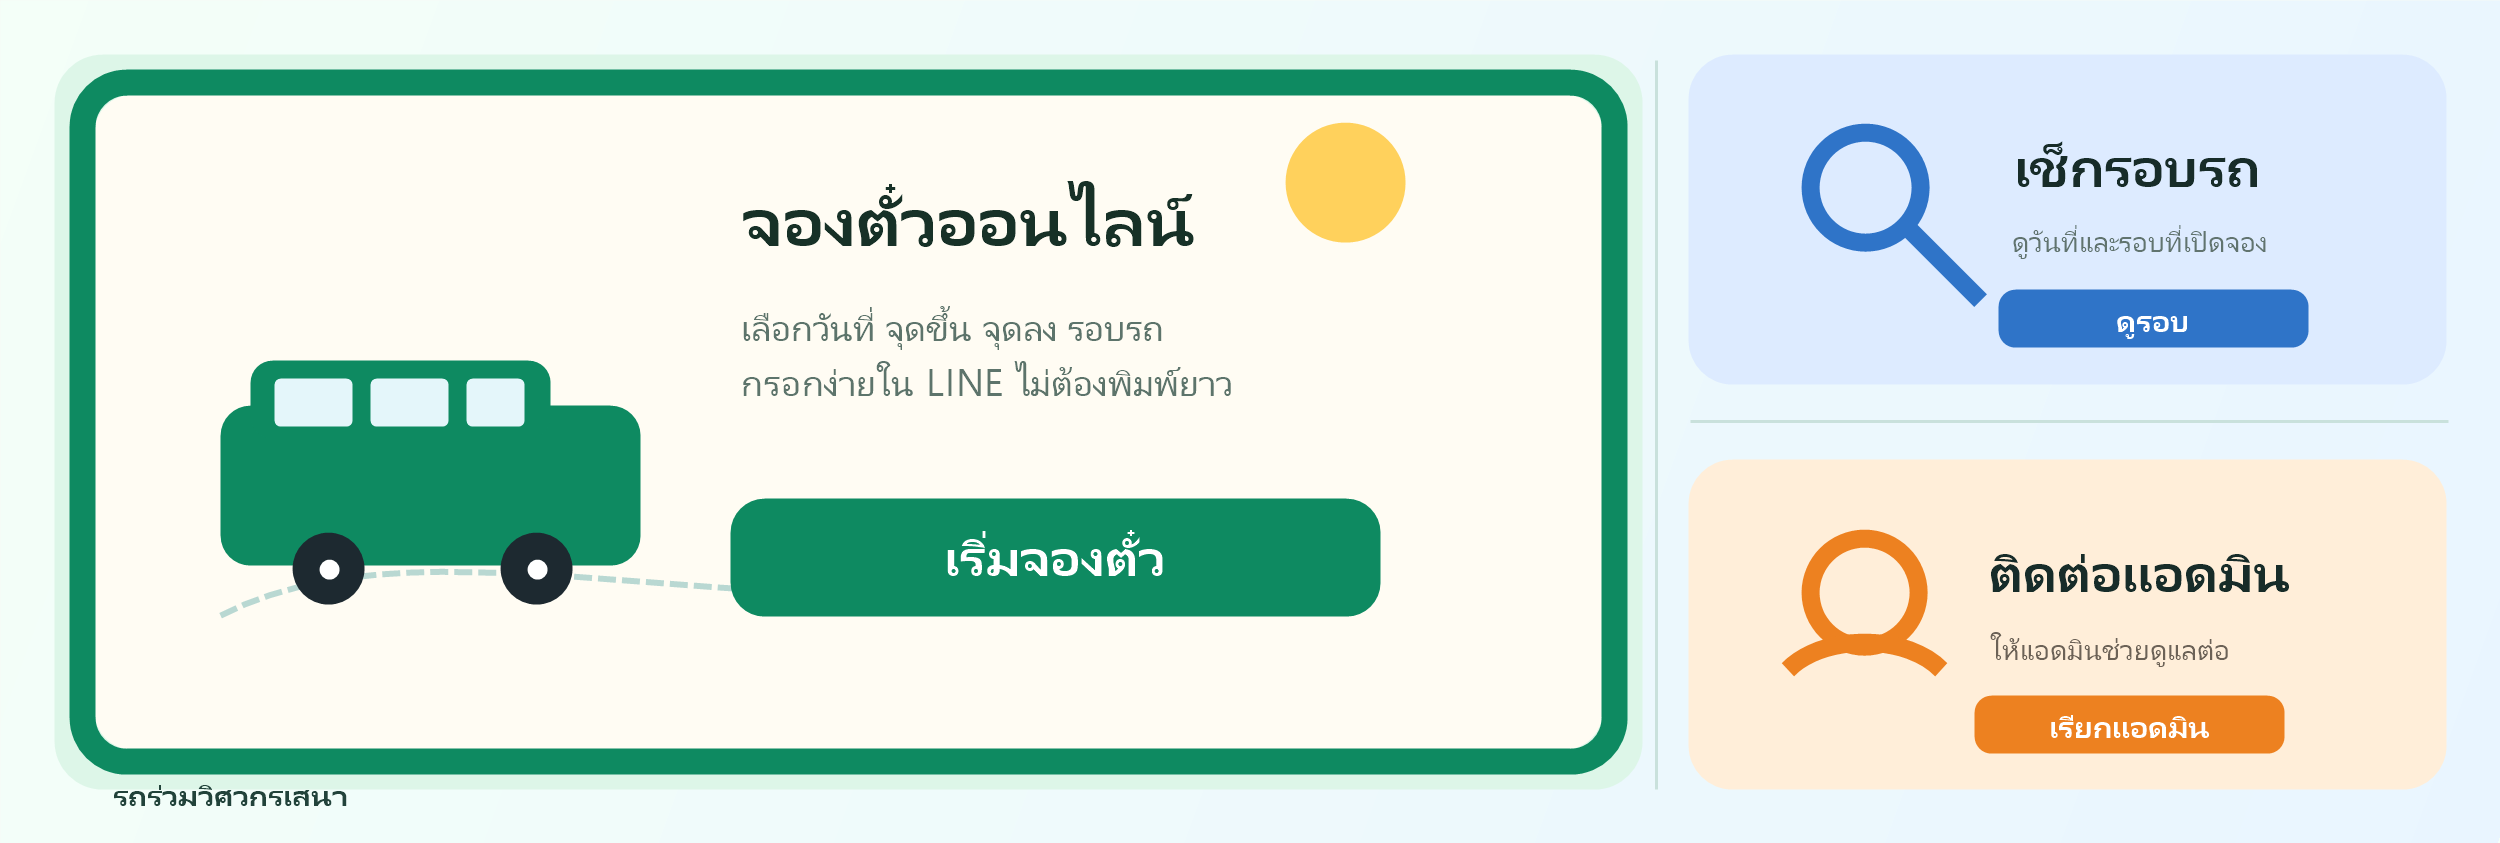
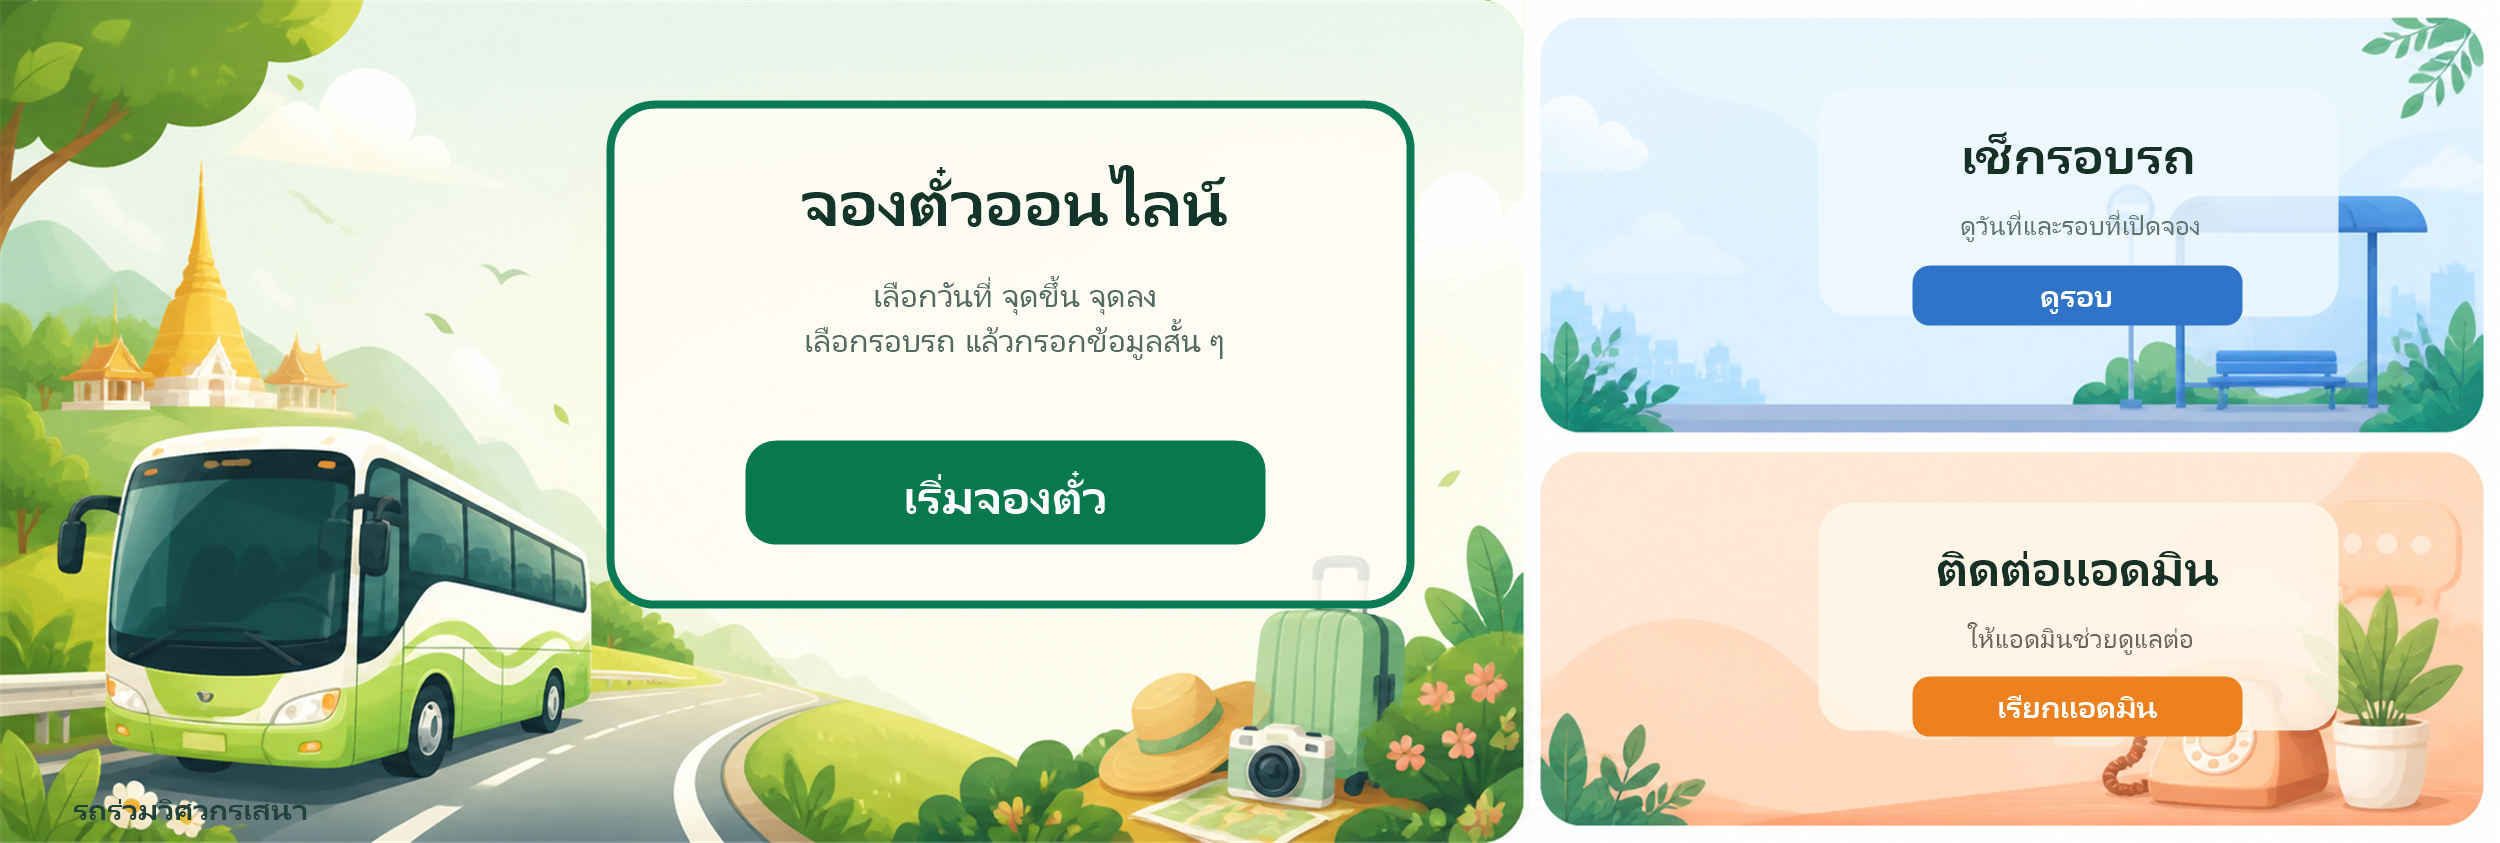
Use generated rich menu artwork

diff --git a/scripts/setup-rich-menu.js b/scripts/setup-rich-menu.js
@@ -56,11 +56,14 @@ async function lineApi(pathname, options = {}) {
 
 async function uploadRichMenuImage(richMenuId) {
   const image = fs.readFileSync(imagePath);
+  const contentType = path.extname(imagePath).toLowerCase() === '.jpg' || path.extname(imagePath).toLowerCase() === '.jpeg'
+    ? 'image/jpeg'
+    : 'image/png';
   const response = await fetch(`https://api-data.line.me/v2/bot/richmenu/${richMenuId}/content`, {
     method: 'POST',
     headers: {
       Authorization: `Bearer ${requireValue(token, 'LINE channel access token')}`,
-      'Content-Type': 'image/png'
+      'Content-Type': contentType
     },
     body: image
   });
